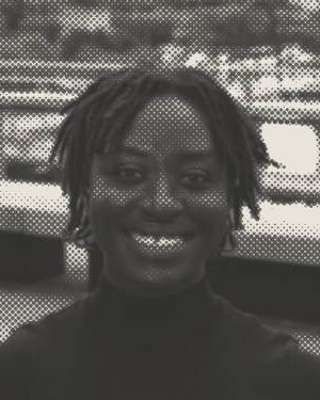
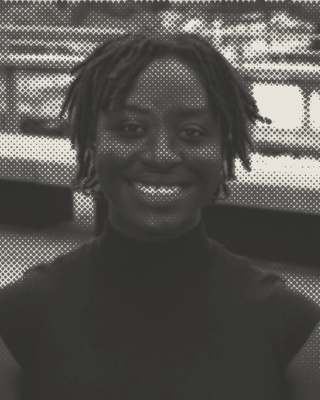
Hero wall: add Bryon Majusiak, more Adjoa and Vanessa Ho; fewer repeats of Natalee, John and others

diff --git a/site/index.html b/site/index.html
@@ -1603,7 +1603,7 @@ footer details li a{display:inline-block;padding:6px 0}
       <figure class="ct" style="--edge:#B9A3E3;--tear:polygon(0% 0%,100% 0%,99.0% 8.3%,99.9% 16.7%,98.7% 25.0%,98.4% 33.3%,97.8% 41.7%,98.9% 50.0%,97.6% 58.3%,97.8% 66.7%,98.8% 75.0%,98.4% 83.3%,98.9% 91.7%,100% 100%,91.7% 97.9%,83.3% 98.6%,75.0% 98.3%,66.7% 98.2%,58.3% 98.9%,50.0% 98.7%,41.7% 98.0%,33.3% 98.7%,25.0% 99.6%,16.7% 98.8%,8.3% 97.8%,0% 100%);--r:-0.9deg"><img src="people/ht/harry.jpg" alt="" width="320" height="400"></figure>
       <figure class="ct" style="--edge:#F3EEE4;--tear:polygon(0% 0%,100% 0%,98.4% 8.3%,97.7% 16.7%,97.9% 25.0%,98.5% 33.3%,99.3% 41.7%,99.7% 50.0%,98.7% 58.3%,99.3% 66.7%,98.8% 75.0%,99.0% 83.3%,99.7% 91.7%,100% 100%,91.7% 100.0%,83.3% 99.1%,75.0% 98.7%,66.7% 99.9%,58.3% 97.8%,50.0% 98.7%,41.7% 97.6%,33.3% 99.7%,25.0% 99.8%,16.7% 99.6%,8.3% 97.8%,0% 100%);--r:-0.1deg"><img src="people/ht/new1.jpg" alt="" width="320" height="400"></figure>
       <figure class="ct" style="--edge:#DF5416;--tear:polygon(0% 0%,100% 0%,97.8% 8.3%,98.1% 16.7%,99.0% 25.0%,99.4% 33.3%,98.8% 41.7%,99.2% 50.0%,97.8% 58.3%,97.8% 66.7%,97.8% 75.0%,98.7% 83.3%,99.7% 91.7%,100% 100%,91.7% 99.0%,83.3% 99.9%,75.0% 99.4%,66.7% 98.3%,58.3% 97.7%,50.0% 99.9%,41.7% 99.6%,33.3% 100.0%,25.0% 99.3%,16.7% 98.3%,8.3% 99.4%,0% 100%);--r:-0.0deg"><img src="people/ht/brendon.jpg" alt="" width="320" height="400"></figure>
-      <figure class="ct" style="--edge:#B9A3E3;--tear:polygon(0% 0%,100% 0%,98.8% 8.3%,98.6% 16.7%,98.0% 25.0%,98.5% 33.3%,98.3% 41.7%,98.3% 50.0%,97.9% 58.3%,99.9% 66.7%,98.5% 75.0%,98.0% 83.3%,98.5% 91.7%,100% 100%,91.7% 98.7%,83.3% 97.9%,75.0% 98.7%,66.7% 99.5%,58.3% 99.5%,50.0% 98.7%,41.7% 98.6%,33.3% 99.7%,25.0% 97.8%,16.7% 98.5%,8.3% 99.2%,0% 100%);--r:-1.1deg"><img src="people/ht/natalee.jpg" alt="" width="320" height="400"></figure>
+      <figure class="ct" style="--edge:#B9A3E3;--tear:polygon(0% 0%,100% 0%,98.8% 8.3%,98.6% 16.7%,98.0% 25.0%,98.5% 33.3%,98.3% 41.7%,98.3% 50.0%,97.9% 58.3%,99.9% 66.7%,98.5% 75.0%,98.0% 83.3%,98.5% 91.7%,100% 100%,91.7% 98.7%,83.3% 97.9%,75.0% 98.7%,66.7% 99.5%,58.3% 99.5%,50.0% 98.7%,41.7% 98.6%,33.3% 99.7%,25.0% 97.8%,16.7% 98.5%,8.3% 99.2%,0% 100%);--r:-1.1deg"><img src="people/ht/adjoa-c.jpg" alt="" width="320" height="400"></figure>
       <figure class="ct" style="--edge:#F3EEE4;--tear:polygon(0% 0%,100% 0%,98.6% 8.3%,97.9% 16.7%,99.5% 25.0%,98.1% 33.3%,99.5% 41.7%,99.8% 50.0%,97.9% 58.3%,99.7% 66.7%,99.8% 75.0%,99.1% 83.3%,99.0% 91.7%,100% 100%,91.7% 97.7%,83.3% 98.7%,75.0% 98.3%,66.7% 99.5%,58.3% 98.5%,50.0% 98.1%,41.7% 99.8%,33.3% 98.6%,25.0% 99.1%,16.7% 98.0%,8.3% 99.1%,0% 100%);--r:0.7deg"><img src="people/ht/new2.jpg" alt="" width="320" height="400"></figure>
       <figure class="ct" style="--edge:#DF5416;--tear:polygon(0% 0%,100% 0%,98.5% 8.3%,99.2% 16.7%,97.6% 25.0%,98.0% 33.3%,98.1% 41.7%,98.8% 50.0%,99.9% 58.3%,98.2% 66.7%,98.5% 75.0%,97.8% 83.3%,98.8% 91.7%,100% 100%,91.7% 99.5%,83.3% 99.7%,75.0% 99.6%,66.7% 99.6%,58.3% 99.3%,50.0% 98.4%,41.7% 98.6%,33.3% 99.7%,25.0% 98.4%,16.7% 99.8%,8.3% 99.8%,0% 100%);--r:-0.4deg"><i class="tape"></i><img src="people/ht/ref5.jpg" alt="" width="320" height="400"></figure>
       <figure class="ct" style="--edge:#F3EEE4;--tear:polygon(0% 0%,100% 0%,99.0% 8.3%,99.1% 16.7%,99.5% 25.0%,99.1% 33.3%,98.5% 41.7%,99.9% 50.0%,99.5% 58.3%,99.0% 66.7%,99.1% 75.0%,99.1% 83.3%,97.8% 91.7%,100% 100%,91.7% 98.5%,83.3% 99.8%,75.0% 98.1%,66.7% 99.2%,58.3% 99.8%,50.0% 98.0%,41.7% 97.9%,33.3% 97.8%,25.0% 97.7%,16.7% 98.6%,8.3% 99.5%,0% 100%);--r:0.3deg"><img src="people/ht/ref6.jpg" alt="" width="320" height="400"></figure>
@@ -1626,31 +1626,31 @@ footer details li a{display:inline-block;padding:6px 0}
       <figure class="ct" style="--edge:#B9A3E3;--tear:polygon(0% 0%,100% 0%,99.2% 8.3%,98.2% 16.7%,99.3% 25.0%,99.7% 33.3%,98.2% 41.7%,99.6% 50.0%,97.8% 58.3%,99.7% 66.7%,99.2% 75.0%,98.7% 83.3%,99.1% 91.7%,100% 100%,91.7% 99.0%,83.3% 99.6%,75.0% 99.5%,66.7% 99.6%,58.3% 98.1%,50.0% 99.3%,41.7% 99.8%,33.3% 97.9%,25.0% 97.6%,16.7% 97.8%,8.3% 99.9%,0% 100%);--r:-0.8deg"><img src="people/ht/wendy-b.jpg" alt="" width="320" height="400"></figure>
       <figure class="ct" style="--edge:#F3EEE4;--tear:polygon(0% 0%,100% 0%,97.7% 8.3%,99.3% 16.7%,99.5% 25.0%,99.0% 33.3%,99.6% 41.7%,99.8% 50.0%,98.8% 58.3%,98.8% 66.7%,99.5% 75.0%,99.7% 83.3%,99.1% 91.7%,100% 100%,91.7% 98.6%,83.3% 99.7%,75.0% 99.7%,66.7% 99.4%,58.3% 98.9%,50.0% 98.8%,41.7% 98.2%,33.3% 98.4%,25.0% 100.0%,16.7% 99.4%,8.3% 99.3%,0% 100%);--r:-0.6deg"><img src="people/ht/carisa.jpg" alt="" width="320" height="400"></figure>
       <figure class="ct" style="--edge:#DF5416;--tear:polygon(0% 0%,100% 0%,98.7% 8.3%,99.0% 16.7%,98.8% 25.0%,98.0% 33.3%,99.8% 41.7%,98.9% 50.0%,98.5% 58.3%,98.7% 66.7%,98.4% 75.0%,97.7% 83.3%,99.1% 91.7%,100% 100%,91.7% 97.7%,83.3% 99.1%,75.0% 97.7%,66.7% 97.9%,58.3% 98.7%,50.0% 98.6%,41.7% 99.0%,33.3% 98.8%,25.0% 99.3%,16.7% 99.0%,8.3% 99.3%,0% 100%);--r:0.1deg"><img src="people/ht/adjoa-b.jpg" alt="" width="320" height="400"></figure>
-      <figure class="ct" style="--edge:#B9A3E3;--tear:polygon(0% 0%,100% 0%,98.8% 8.3%,99.4% 16.7%,97.8% 25.0%,98.4% 33.3%,98.2% 41.7%,99.9% 50.0%,98.1% 58.3%,98.6% 66.7%,98.5% 75.0%,99.0% 83.3%,98.4% 91.7%,100% 100%,91.7% 99.9%,83.3% 99.2%,75.0% 99.0%,66.7% 98.6%,58.3% 98.3%,50.0% 99.2%,41.7% 98.1%,33.3% 99.5%,25.0% 98.3%,16.7% 99.4%,8.3% 98.2%,0% 100%);--r:-1.6deg"><img src="people/ht/new1.jpg" alt="" width="320" height="400"></figure>
+      <figure class="ct" style="--edge:#B9A3E3;--tear:polygon(0% 0%,100% 0%,98.8% 8.3%,99.4% 16.7%,97.8% 25.0%,98.4% 33.3%,98.2% 41.7%,99.9% 50.0%,98.1% 58.3%,98.6% 66.7%,98.5% 75.0%,99.0% 83.3%,98.4% 91.7%,100% 100%,91.7% 99.9%,83.3% 99.2%,75.0% 99.0%,66.7% 98.6%,58.3% 98.3%,50.0% 99.2%,41.7% 98.1%,33.3% 99.5%,25.0% 98.3%,16.7% 99.4%,8.3% 98.2%,0% 100%);--r:-1.6deg"><img src="people/ht/bryon-b.jpg" alt="" width="320" height="400"></figure>
       <figure class="ct" style="--edge:#F3EEE4;--tear:polygon(0% 0%,100% 0%,99.8% 8.3%,98.1% 16.7%,97.8% 25.0%,99.7% 33.3%,97.7% 41.7%,99.4% 50.0%,98.3% 58.3%,99.9% 66.7%,99.0% 75.0%,99.7% 83.3%,97.9% 91.7%,100% 100%,91.7% 99.1%,83.3% 99.6%,75.0% 99.1%,66.7% 99.7%,58.3% 99.0%,50.0% 98.6%,41.7% 98.5%,33.3% 98.4%,25.0% 99.1%,16.7% 98.2%,8.3% 98.0%,0% 100%);--r:-1.3deg"><img src="people/ht/ref6.jpg" alt="" width="320" height="400"></figure>
       <figure class="ct" style="--edge:#DF5416;--tear:polygon(0% 0%,100% 0%,99.3% 8.3%,99.7% 16.7%,98.8% 25.0%,98.8% 33.3%,99.3% 41.7%,98.8% 50.0%,98.0% 58.3%,99.3% 66.7%,98.5% 75.0%,98.3% 83.3%,98.3% 91.7%,100% 100%,91.7% 99.5%,83.3% 99.3%,75.0% 99.4%,66.7% 97.7%,58.3% 98.8%,50.0% 98.4%,41.7% 99.5%,33.3% 98.4%,25.0% 98.5%,16.7% 100.0%,8.3% 99.4%,0% 100%);--r:-1.7deg"><i class="tape"></i><img src="people/ht/meg-b.jpg" alt="" width="320" height="400"></figure>
       <figure class="ct" style="--edge:#F3EEE4;--tear:polygon(0% 0%,100% 0%,99.9% 8.3%,99.5% 16.7%,99.3% 25.0%,98.2% 33.3%,97.8% 41.7%,99.6% 50.0%,99.4% 58.3%,97.6% 66.7%,98.8% 75.0%,99.2% 83.3%,99.2% 91.7%,100% 100%,91.7% 98.8%,83.3% 99.7%,75.0% 97.9%,66.7% 98.1%,58.3% 98.9%,50.0% 98.0%,41.7% 98.0%,33.3% 98.2%,25.0% 98.9%,16.7% 98.2%,8.3% 99.1%,0% 100%);--r:-1.3deg"><img src="people/ht/ref5.jpg" alt="" width="320" height="400"></figure>
       <figure class="ct" style="--edge:#B9A3E3;--tear:polygon(0% 0%,100% 0%,99.6% 8.3%,98.0% 16.7%,98.6% 25.0%,99.3% 33.3%,98.2% 41.7%,98.0% 50.0%,99.6% 58.3%,98.4% 66.7%,98.6% 75.0%,98.9% 83.3%,99.2% 91.7%,100% 100%,91.7% 98.7%,83.3% 99.0%,75.0% 98.6%,66.7% 98.0%,58.3% 98.9%,50.0% 98.0%,41.7% 100.0%,33.3% 99.3%,25.0% 97.8%,16.7% 98.6%,8.3% 98.3%,0% 100%);--r:-0.0deg"><img src="people/ht/javaree.jpg" alt="" width="320" height="400"></figure>
       <figure class="ct" style="--edge:#F3EEE4;--tear:polygon(0% 0%,100% 0%,98.2% 8.3%,99.2% 16.7%,97.9% 25.0%,99.5% 33.3%,98.4% 41.7%,99.2% 50.0%,97.8% 58.3%,99.2% 66.7%,98.9% 75.0%,98.6% 83.3%,97.8% 91.7%,100% 100%,91.7% 98.4%,83.3% 99.3%,75.0% 98.7%,66.7% 97.6%,58.3% 98.9%,50.0% 99.5%,41.7% 97.7%,33.3% 98.2%,25.0% 98.8%,16.7% 99.8%,8.3% 98.0%,0% 100%);--r:-1.7deg"><img src="people/ht/vanessa.jpg" alt="" width="320" height="400"></figure>
       <figure class="ct" style="--edge:#DF5416;--tear:polygon(0% 0%,100% 0%,98.4% 8.3%,98.6% 16.7%,98.1% 25.0%,98.2% 33.3%,99.1% 41.7%,99.1% 50.0%,99.6% 58.3%,98.6% 66.7%,99.6% 75.0%,99.8% 83.3%,98.9% 91.7%,100% 100%,91.7% 97.9%,83.3% 98.1%,75.0% 99.5%,66.7% 99.9%,58.3% 99.6%,50.0% 99.3%,41.7% 99.9%,33.3% 98.0%,25.0% 99.0%,16.7% 98.6%,8.3% 99.3%,0% 100%);--r:0.2deg"><img src="people/ht/brie-b.jpg" alt="" width="320" height="400"></figure>
-      <figure class="ct" style="--edge:#B9A3E3;--tear:polygon(0% 0%,100% 0%,99.2% 8.3%,99.3% 16.7%,99.7% 25.0%,99.2% 33.3%,99.9% 41.7%,98.4% 50.0%,99.8% 58.3%,98.0% 66.7%,99.0% 75.0%,98.3% 83.3%,98.8% 91.7%,100% 100%,91.7% 97.8%,83.3% 99.2%,75.0% 98.9%,66.7% 99.2%,58.3% 98.1%,50.0% 99.2%,41.7% 99.7%,33.3% 98.8%,25.0% 98.1%,16.7% 99.8%,8.3% 98.5%,0% 100%);--r:-1.6deg"><img src="people/ht/new3.jpg" alt="" width="320" height="400"></figure>
+      <figure class="ct" style="--edge:#B9A3E3;--tear:polygon(0% 0%,100% 0%,99.2% 8.3%,99.3% 16.7%,99.7% 25.0%,99.2% 33.3%,99.9% 41.7%,98.4% 50.0%,99.8% 58.3%,98.0% 66.7%,99.0% 75.0%,98.3% 83.3%,98.8% 91.7%,100% 100%,91.7% 97.8%,83.3% 99.2%,75.0% 98.9%,66.7% 99.2%,58.3% 98.1%,50.0% 99.2%,41.7% 99.7%,33.3% 98.8%,25.0% 98.1%,16.7% 99.8%,8.3% 98.5%,0% 100%);--r:-1.6deg"><img src="people/ht/bryon.jpg" alt="" width="320" height="400"></figure>
       <figure class="ct" style="--edge:#F3EEE4;--tear:polygon(0% 0%,100% 0%,98.2% 8.3%,97.6% 16.7%,99.2% 25.0%,100.0% 33.3%,99.1% 41.7%,99.8% 50.0%,98.9% 58.3%,98.7% 66.7%,99.9% 75.0%,99.1% 83.3%,100.0% 91.7%,100% 100%,91.7% 99.7%,83.3% 97.8%,75.0% 97.8%,66.7% 99.4%,58.3% 99.6%,50.0% 98.5%,41.7% 98.4%,33.3% 99.2%,25.0% 99.1%,16.7% 98.7%,8.3% 99.3%,0% 100%);--r:1.4deg"><img src="people/ht/ref6.jpg" alt="" width="320" height="400"></figure>
       <figure class="ct" style="--edge:#DF5416;--tear:polygon(0% 0%,100% 0%,98.9% 8.3%,98.2% 16.7%,99.3% 25.0%,99.6% 33.3%,97.8% 41.7%,97.8% 50.0%,98.2% 58.3%,100.0% 66.7%,98.8% 75.0%,98.1% 83.3%,99.2% 91.7%,100% 100%,91.7% 99.5%,83.3% 99.1%,75.0% 98.6%,66.7% 98.6%,58.3% 98.9%,50.0% 98.8%,41.7% 98.9%,33.3% 97.9%,25.0% 99.0%,16.7% 97.8%,8.3% 97.8%,0% 100%);--r:0.5deg"><i class="tape"></i><img src="people/ht/carisa-b.jpg" alt="" width="320" height="400"></figure>
       <figure class="ct" style="--edge:#F3EEE4;--tear:polygon(0% 0%,100% 0%,97.7% 8.3%,98.7% 16.7%,98.0% 25.0%,98.8% 33.3%,99.0% 41.7%,97.7% 50.0%,98.4% 58.3%,98.1% 66.7%,99.8% 75.0%,97.9% 83.3%,99.0% 91.7%,100% 100%,91.7% 99.5%,83.3% 99.7%,75.0% 98.1%,66.7% 97.7%,58.3% 98.1%,50.0% 98.1%,41.7% 98.1%,33.3% 99.9%,25.0% 97.8%,16.7% 97.9%,8.3% 97.9%,0% 100%);--r:1.5deg"><img src="people/ht/meg.jpg" alt="" width="320" height="400"></figure>
 <figure class="ct" style="--edge:#DF5416;--tear:polygon(0% 0%,100% 0%,98.8% 8.3%,99.9% 16.7%,98.6% 25.0%,99.7% 33.3%,99.7% 41.7%,99.3% 50.0%,99.8% 58.3%,100.0% 66.7%,98.4% 75.0%,99.5% 83.3%,97.8% 91.7%,100% 100%,91.7% 99.9%,83.3% 99.1%,75.0% 98.3%,66.7% 99.0%,58.3% 98.6%,50.0% 99.5%,41.7% 98.4%,33.3% 99.2%,25.0% 99.3%,16.7% 100.0%,8.3% 99.0%,0% 100%);--r:1.5deg"><img src="people/ht/ref7.jpg" alt="" width="320" height="400"></figure>
-      <figure class="ct" style="--edge:#B9A3E3;--tear:polygon(0% 0%,100% 0%,99.7% 8.3%,98.3% 16.7%,100.0% 25.0%,98.9% 33.3%,98.8% 41.7%,98.4% 50.0%,99.5% 58.3%,98.8% 66.7%,97.6% 75.0%,98.2% 83.3%,99.0% 91.7%,100% 100%,91.7% 99.1%,83.3% 99.1%,75.0% 97.6%,66.7% 100.0%,58.3% 97.9%,50.0% 97.7%,41.7% 98.6%,33.3% 97.6%,25.0% 100.0%,16.7% 99.6%,8.3% 97.6%,0% 100%);--r:0.4deg"><img src="people/ht/new1.jpg" alt="" width="320" height="400"></figure>
-      <figure class="ct" style="--edge:#F3EEE4;--tear:polygon(0% 0%,100% 0%,98.6% 8.3%,99.9% 16.7%,99.6% 25.0%,98.9% 33.3%,100.0% 41.7%,98.5% 50.0%,98.0% 58.3%,99.1% 66.7%,99.8% 75.0%,99.5% 83.3%,98.5% 91.7%,100% 100%,91.7% 100.0%,83.3% 99.1%,75.0% 98.5%,66.7% 99.7%,58.3% 98.6%,50.0% 98.0%,41.7% 99.7%,33.3% 99.1%,25.0% 98.5%,16.7% 99.3%,8.3% 99.5%,0% 100%);--r:0.4deg"><img src="people/ht/natalee.jpg" alt="" width="320" height="400"></figure>
+      <figure class="ct" style="--edge:#B9A3E3;--tear:polygon(0% 0%,100% 0%,99.7% 8.3%,98.3% 16.7%,100.0% 25.0%,98.9% 33.3%,98.8% 41.7%,98.4% 50.0%,99.5% 58.3%,98.8% 66.7%,97.6% 75.0%,98.2% 83.3%,99.0% 91.7%,100% 100%,91.7% 99.1%,83.3% 99.1%,75.0% 97.6%,66.7% 100.0%,58.3% 97.9%,50.0% 97.7%,41.7% 98.6%,33.3% 97.6%,25.0% 100.0%,16.7% 99.6%,8.3% 97.6%,0% 100%);--r:0.4deg"><img src="people/ht/vanessa-c.jpg" alt="" width="320" height="400"></figure>
+      <figure class="ct" style="--edge:#F3EEE4;--tear:polygon(0% 0%,100% 0%,98.6% 8.3%,99.9% 16.7%,99.6% 25.0%,98.9% 33.3%,100.0% 41.7%,98.5% 50.0%,98.0% 58.3%,99.1% 66.7%,99.8% 75.0%,99.5% 83.3%,98.5% 91.7%,100% 100%,91.7% 100.0%,83.3% 99.1%,75.0% 98.5%,66.7% 99.7%,58.3% 98.6%,50.0% 98.0%,41.7% 99.7%,33.3% 99.1%,25.0% 98.5%,16.7% 99.3%,8.3% 99.5%,0% 100%);--r:0.4deg"><img src="people/ht/natalee-b.jpg" alt="" width="320" height="400"></figure>
       <figure class="ct" style="--edge:#DF5416;--tear:polygon(0% 0%,100% 0%,98.3% 8.3%,99.6% 16.7%,98.5% 25.0%,98.7% 33.3%,98.4% 41.7%,99.1% 50.0%,98.8% 58.3%,99.8% 66.7%,99.9% 75.0%,99.7% 83.3%,98.8% 91.7%,100% 100%,91.7% 99.4%,83.3% 98.2%,75.0% 99.1%,66.7% 99.0%,58.3% 97.8%,50.0% 98.8%,41.7% 98.8%,33.3% 97.8%,25.0% 97.7%,16.7% 99.7%,8.3% 98.8%,0% 100%);--r:0.6deg"><i class="tape"></i><img src="people/ht/brendon-b.jpg" alt="" width="320" height="400"></figure>
-      <figure class="ct" style="--edge:#F3EEE4;--tear:polygon(0% 0%,100% 0%,98.5% 8.3%,99.8% 16.7%,99.5% 25.0%,97.8% 33.3%,98.2% 41.7%,99.8% 50.0%,99.0% 58.3%,99.4% 66.7%,99.9% 75.0%,99.3% 83.3%,98.7% 91.7%,100% 100%,91.7% 97.7%,83.3% 99.8%,75.0% 99.7%,66.7% 98.9%,58.3% 99.2%,50.0% 98.2%,41.7% 98.7%,33.3% 97.7%,25.0% 98.6%,16.7% 97.8%,8.3% 98.9%,0% 100%);--r:-0.5deg"><img src="people/ht/new3.jpg" alt="" width="320" height="400"></figure>
+      <figure class="ct" style="--edge:#F3EEE4;--tear:polygon(0% 0%,100% 0%,98.5% 8.3%,99.8% 16.7%,99.5% 25.0%,97.8% 33.3%,98.2% 41.7%,99.8% 50.0%,99.0% 58.3%,99.4% 66.7%,99.9% 75.0%,99.3% 83.3%,98.7% 91.7%,100% 100%,91.7% 97.7%,83.3% 99.8%,75.0% 99.7%,66.7% 98.9%,58.3% 99.2%,50.0% 98.2%,41.7% 98.7%,33.3% 97.7%,25.0% 98.6%,16.7% 97.8%,8.3% 98.9%,0% 100%);--r:-0.5deg"><img src="people/ht/new2.jpg" alt="" width="320" height="400"></figure>
       <figure class="ct" style="--edge:#B9A3E3;--tear:polygon(0% 0%,100% 0%,99.3% 8.3%,99.9% 16.7%,98.6% 25.0%,99.8% 33.3%,99.8% 41.7%,99.3% 50.0%,99.7% 58.3%,99.8% 66.7%,98.9% 75.0%,99.1% 83.3%,99.9% 91.7%,100% 100%,91.7% 97.8%,83.3% 98.2%,75.0% 99.7%,66.7% 97.7%,58.3% 99.2%,50.0% 99.8%,41.7% 98.9%,33.3% 99.8%,25.0% 97.9%,16.7% 97.7%,8.3% 99.9%,0% 100%);--r:-0.0deg"><img src="people/ht/wendy-b.jpg" alt="" width="320" height="400"></figure>
       <figure class="ct" style="--edge:#F3EEE4;--tear:polygon(0% 0%,100% 0%,100.0% 8.3%,98.4% 16.7%,99.1% 25.0%,100.0% 33.3%,99.8% 41.7%,99.8% 50.0%,99.7% 58.3%,99.4% 66.7%,99.0% 75.0%,99.2% 83.3%,97.8% 91.7%,100% 100%,91.7% 98.3%,83.3% 98.9%,75.0% 98.9%,66.7% 98.7%,58.3% 98.8%,50.0% 98.8%,41.7% 99.3%,33.3% 99.8%,25.0% 99.9%,16.7% 97.7%,8.3% 99.7%,0% 100%);--r:1.0deg"><img src="people/ht/brie.jpg" alt="" width="320" height="400"></figure>
-      <figure class="ct" style="--edge:#DF5416;--tear:polygon(0% 0%,100% 0%,98.4% 8.3%,98.8% 16.7%,97.8% 25.0%,99.1% 33.3%,99.7% 41.7%,98.5% 50.0%,98.8% 58.3%,98.2% 66.7%,99.2% 75.0%,97.8% 83.3%,98.8% 91.7%,100% 100%,91.7% 99.4%,83.3% 99.0%,75.0% 99.4%,66.7% 98.5%,58.3% 98.1%,50.0% 98.2%,41.7% 99.5%,33.3% 99.5%,25.0% 99.5%,16.7% 97.8%,8.3% 99.5%,0% 100%);--r:-1.3deg"><img src="people/ht/john.jpg" alt="" width="320" height="400"></figure>
+      <figure class="ct" style="--edge:#DF5416;--tear:polygon(0% 0%,100% 0%,98.4% 8.3%,98.8% 16.7%,97.8% 25.0%,99.1% 33.3%,99.7% 41.7%,98.5% 50.0%,98.8% 58.3%,98.2% 66.7%,99.2% 75.0%,97.8% 83.3%,98.8% 91.7%,100% 100%,91.7% 99.4%,83.3% 99.0%,75.0% 99.4%,66.7% 98.5%,58.3% 98.1%,50.0% 98.2%,41.7% 99.5%,33.3% 99.5%,25.0% 99.5%,16.7% 97.8%,8.3% 99.5%,0% 100%);--r:-1.3deg"><img src="people/ht/bryon.jpg" alt="" width="320" height="400"></figure>
       <figure class="ct" style="--edge:#B9A3E3;--tear:polygon(0% 0%,100% 0%,99.2% 8.3%,97.9% 16.7%,99.9% 25.0%,99.8% 33.3%,97.6% 41.7%,98.0% 50.0%,99.7% 58.3%,98.9% 66.7%,97.8% 75.0%,98.0% 83.3%,99.1% 91.7%,100% 100%,91.7% 98.8%,83.3% 98.4%,75.0% 98.3%,66.7% 98.0%,58.3% 98.5%,50.0% 99.2%,41.7% 98.0%,33.3% 99.3%,25.0% 98.5%,16.7% 98.4%,8.3% 99.3%,0% 100%);--r:-0.5deg"><img src="people/ht/wendy.jpg" alt="" width="320" height="400"></figure>
       <figure class="ct" style="--edge:#F3EEE4;--tear:polygon(0% 0%,100% 0%,98.4% 8.3%,98.6% 16.7%,98.5% 25.0%,99.0% 33.3%,99.5% 41.7%,98.2% 50.0%,99.4% 58.3%,98.1% 66.7%,98.1% 75.0%,97.6% 83.3%,99.7% 91.7%,100% 100%,91.7% 99.7%,83.3% 98.7%,75.0% 98.5%,66.7% 99.1%,58.3% 99.8%,50.0% 99.5%,41.7% 98.0%,33.3% 99.4%,25.0% 98.3%,16.7% 98.2%,8.3% 98.7%,0% 100%);--r:-1.7deg"><img src="people/ht/carisa-b.jpg" alt="" width="320" height="400"></figure>
       <figure class="ct" style="--edge:#DF5416;--tear:polygon(0% 0%,100% 0%,99.5% 8.3%,98.1% 16.7%,98.7% 25.0%,97.7% 33.3%,98.8% 41.7%,97.6% 50.0%,99.6% 58.3%,98.0% 66.7%,98.3% 75.0%,99.5% 83.3%,99.0% 91.7%,100% 100%,91.7% 97.9%,83.3% 99.1%,75.0% 98.9%,66.7% 99.5%,58.3% 97.9%,50.0% 100.0%,41.7% 98.7%,33.3% 98.4%,25.0% 98.8%,16.7% 98.0%,8.3% 99.2%,0% 100%);--r:-0.6deg"><i class="tape"></i><img src="people/ht/meg-b.jpg" alt="" width="320" height="400"></figure>
       <figure class="ct" style="--edge:#F3EEE4;--tear:polygon(0% 0%,100% 0%,97.6% 8.3%,99.8% 16.7%,97.9% 25.0%,98.1% 33.3%,97.8% 41.7%,99.7% 50.0%,99.4% 58.3%,99.1% 66.7%,99.8% 75.0%,99.3% 83.3%,97.7% 91.7%,100% 100%,91.7% 97.8%,83.3% 99.4%,75.0% 98.3%,66.7% 100.0%,58.3% 98.8%,50.0% 99.9%,41.7% 99.2%,33.3% 99.0%,25.0% 99.3%,16.7% 97.8%,8.3% 99.5%,0% 100%);--r:1.3deg"><img src="people/ht/adjoa.jpg" alt="" width="320" height="400"></figure>
       <figure class="ct" style="--edge:#B9A3E3;--tear:polygon(0% 0%,100% 0%,99.0% 8.3%,99.9% 16.7%,98.7% 25.0%,98.4% 33.3%,97.8% 41.7%,98.9% 50.0%,97.6% 58.3%,97.8% 66.7%,98.8% 75.0%,98.4% 83.3%,98.9% 91.7%,100% 100%,91.7% 97.9%,83.3% 98.6%,75.0% 98.3%,66.7% 98.2%,58.3% 98.9%,50.0% 98.7%,41.7% 98.0%,33.3% 98.7%,25.0% 99.6%,16.7% 98.8%,8.3% 97.8%,0% 100%);--r:-0.9deg"><img src="people/ht/harry.jpg" alt="" width="320" height="400"></figure>
-      <figure class="ct" style="--edge:#F3EEE4;--tear:polygon(0% 0%,100% 0%,98.4% 8.3%,97.7% 16.7%,97.9% 25.0%,98.5% 33.3%,99.3% 41.7%,99.7% 50.0%,98.7% 58.3%,99.3% 66.7%,98.8% 75.0%,99.0% 83.3%,99.7% 91.7%,100% 100%,91.7% 100.0%,83.3% 99.1%,75.0% 98.7%,66.7% 99.9%,58.3% 97.8%,50.0% 98.7%,41.7% 97.6%,33.3% 99.7%,25.0% 99.8%,16.7% 99.6%,8.3% 97.8%,0% 100%);--r:-0.1deg"><img src="people/ht/new1.jpg" alt="" width="320" height="400"></figure>
+      <figure class="ct" style="--edge:#F3EEE4;--tear:polygon(0% 0%,100% 0%,98.4% 8.3%,97.7% 16.7%,97.9% 25.0%,98.5% 33.3%,99.3% 41.7%,99.7% 50.0%,98.7% 58.3%,99.3% 66.7%,98.8% 75.0%,99.0% 83.3%,99.7% 91.7%,100% 100%,91.7% 100.0%,83.3% 99.1%,75.0% 98.7%,66.7% 99.9%,58.3% 97.8%,50.0% 98.7%,41.7% 97.6%,33.3% 99.7%,25.0% 99.8%,16.7% 99.6%,8.3% 97.8%,0% 100%);--r:-0.1deg"><img src="people/ht/adjoa-c.jpg" alt="" width="320" height="400"></figure>
       <figure class="ct" style="--edge:#DF5416;--tear:polygon(0% 0%,100% 0%,97.8% 8.3%,98.1% 16.7%,99.0% 25.0%,99.4% 33.3%,98.8% 41.7%,99.2% 50.0%,97.8% 58.3%,97.8% 66.7%,97.8% 75.0%,98.7% 83.3%,99.7% 91.7%,100% 100%,91.7% 99.0%,83.3% 99.9%,75.0% 99.4%,66.7% 98.3%,58.3% 97.7%,50.0% 99.9%,41.7% 99.6%,33.3% 100.0%,25.0% 99.3%,16.7% 98.3%,8.3% 99.4%,0% 100%);--r:-0.0deg"><img src="people/ht/brendon.jpg" alt="" width="320" height="400"></figure>
       <figure class="ct" style="--edge:#B9A3E3;--tear:polygon(0% 0%,100% 0%,98.8% 8.3%,98.6% 16.7%,98.0% 25.0%,98.5% 33.3%,98.3% 41.7%,98.3% 50.0%,97.9% 58.3%,99.9% 66.7%,98.5% 75.0%,98.0% 83.3%,98.5% 91.7%,100% 100%,91.7% 98.7%,83.3% 97.9%,75.0% 98.7%,66.7% 99.5%,58.3% 99.5%,50.0% 98.7%,41.7% 98.6%,33.3% 99.7%,25.0% 97.8%,16.7% 98.5%,8.3% 99.2%,0% 100%);--r:-1.1deg"><img src="people/ht/javaree-b.jpg" alt="" width="320" height="400"></figure>
       <figure class="ct" style="--edge:#F3EEE4;--tear:polygon(0% 0%,100% 0%,98.6% 8.3%,97.9% 16.7%,99.5% 25.0%,98.1% 33.3%,99.5% 41.7%,99.8% 50.0%,97.9% 58.3%,99.7% 66.7%,99.8% 75.0%,99.1% 83.3%,99.0% 91.7%,100% 100%,91.7% 97.7%,83.3% 98.7%,75.0% 98.3%,66.7% 99.5%,58.3% 98.5%,50.0% 98.1%,41.7% 99.8%,33.3% 98.6%,25.0% 99.1%,16.7% 98.0%,8.3% 99.1%,0% 100%);--r:0.7deg"><img src="people/ht/vanessa-b.jpg" alt="" width="320" height="400"></figure>
